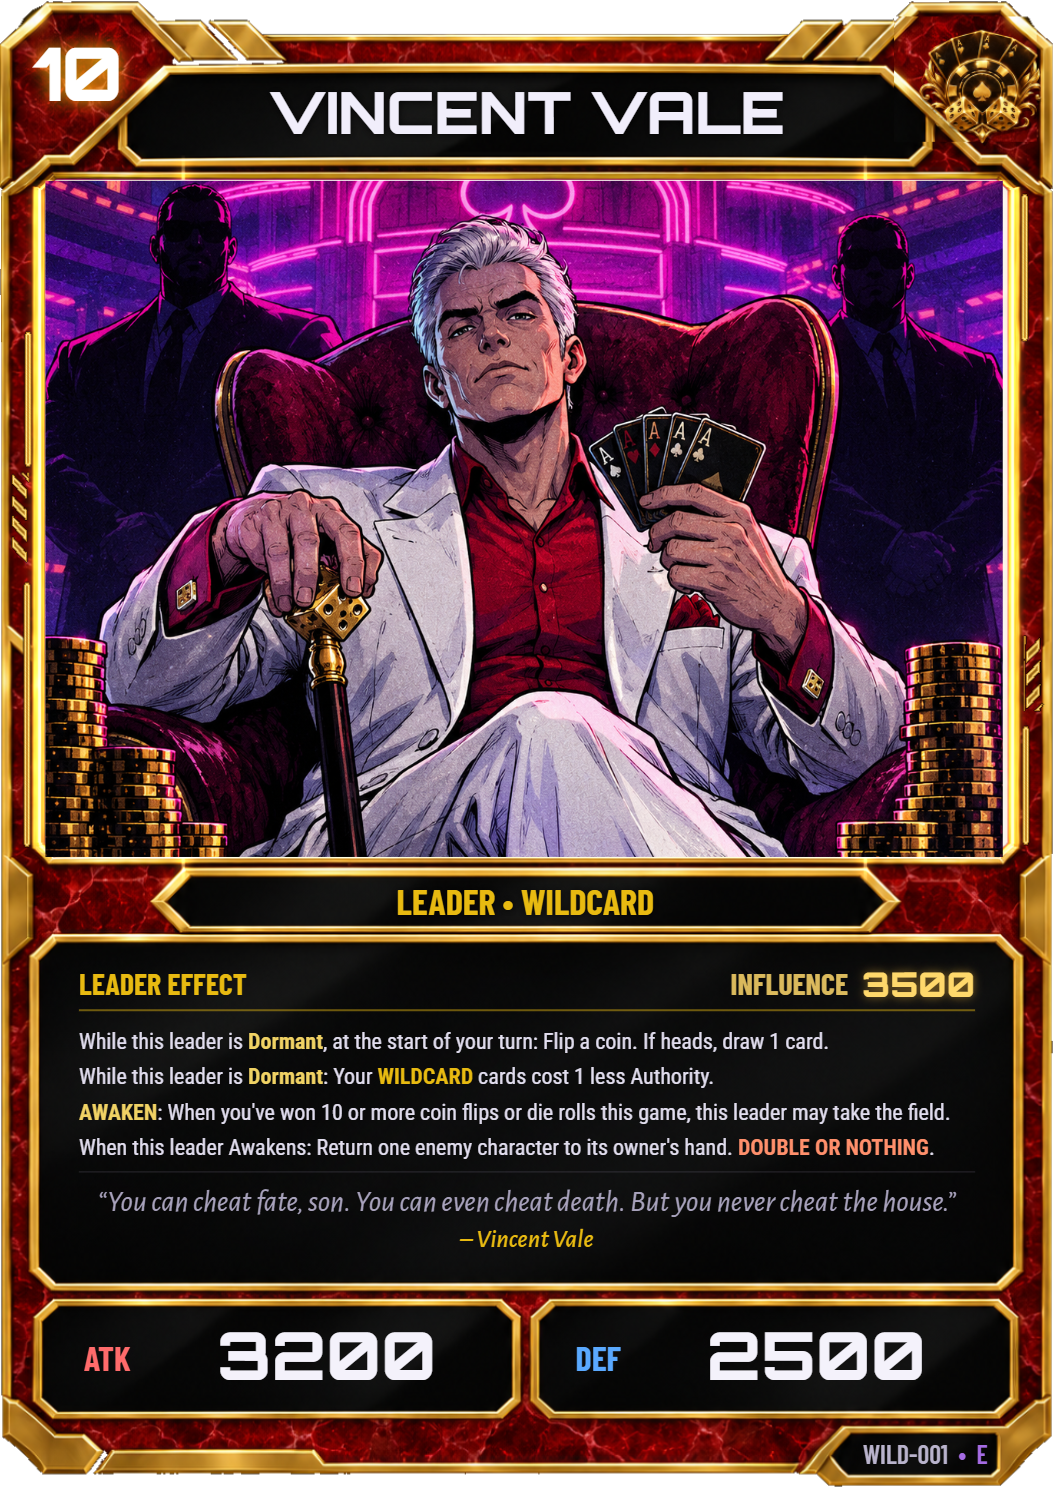
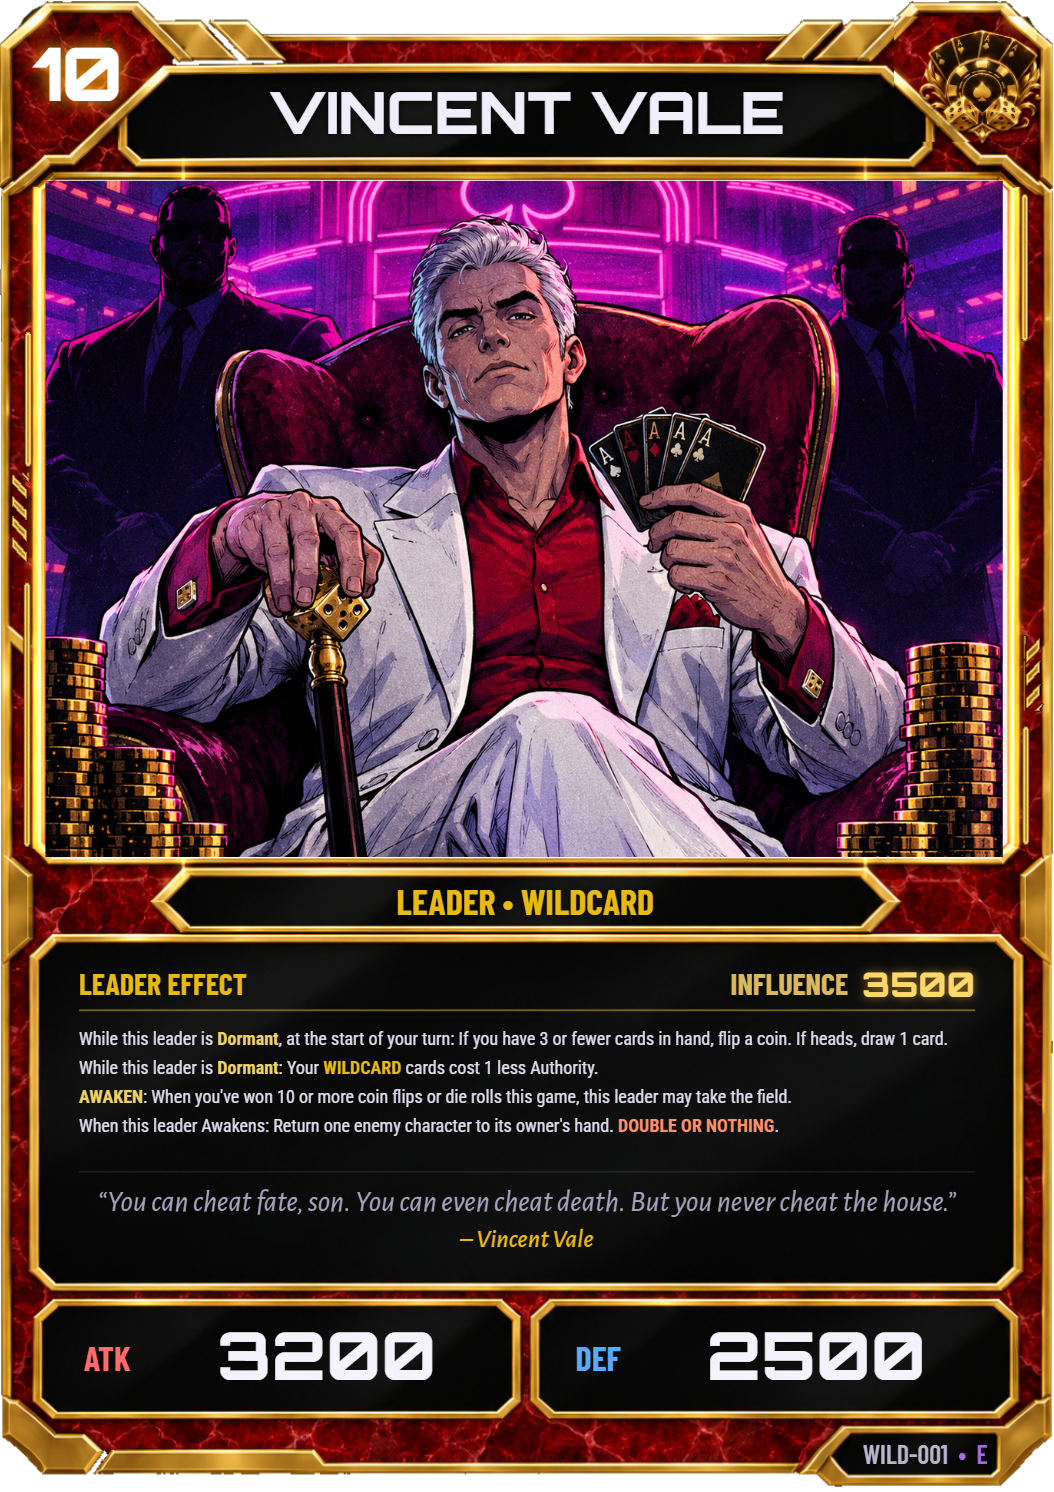
Cards: Forge export (Vincent Vale draws on heads only with 3 or fewer cards in hand)

Changed region(s): [[0.0607, 0.6783, 0.9108, 0.7708]]

diff --git a/shared/cards_forge.js b/shared/cards_forge.js
@@ -2743,13 +2743,15 @@ export const FORGE_CARDS = {
         "art_url": "card_wild_001",
         "code": "WILD-001",
         "flavourText": "You can cheat fate, son. You can even cheat death. But you never cheat the house.",
-        "effectText": "While this leader is Dormant, at the start of your turn: Flip a coin. If heads, draw 1 card.\nWhile this leader is Dormant: Your WILDCARD cards cost 1 less Authority.\nAWAKEN: When you've won 10 or more coin flips or die rolls this game, this leader may take the field.\nWhen this leader Awakens: Return one enemy character to its owner's hand. DOUBLE OR NOTHING.",
+        "effectText": "While this leader is Dormant, at the start of your turn: If you have 3 or fewer cards in hand, flip a coin. If heads, draw 1 card.\nWhile this leader is Dormant: Your WILDCARD cards cost 1 less Authority.\nAWAKEN: When you've won 10 or more coin flips or die rolls this game, this leader may take the field.\nWhen this leader Awakens: Return one enemy character to its owner's hand. DOUBLE OR NOTHING.",
         "effects": [
             {
                 "when": "dormant_turn_start",
                 "do": "draw",
+                "if": "hand_le",
                 "luck": "coin",
-                "amount": 1
+                "amount": 1,
+                "n": 3
             },
             {
                 "when": "dormant",
